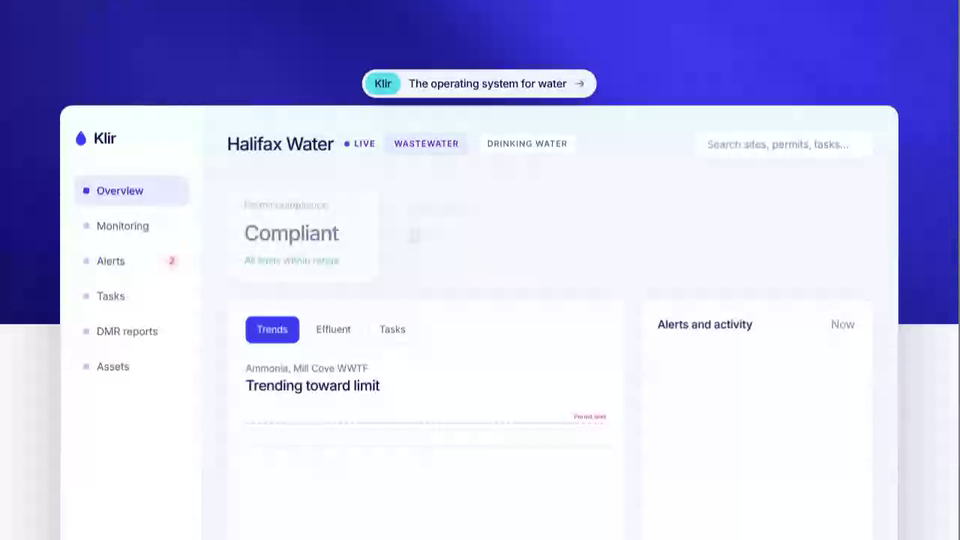
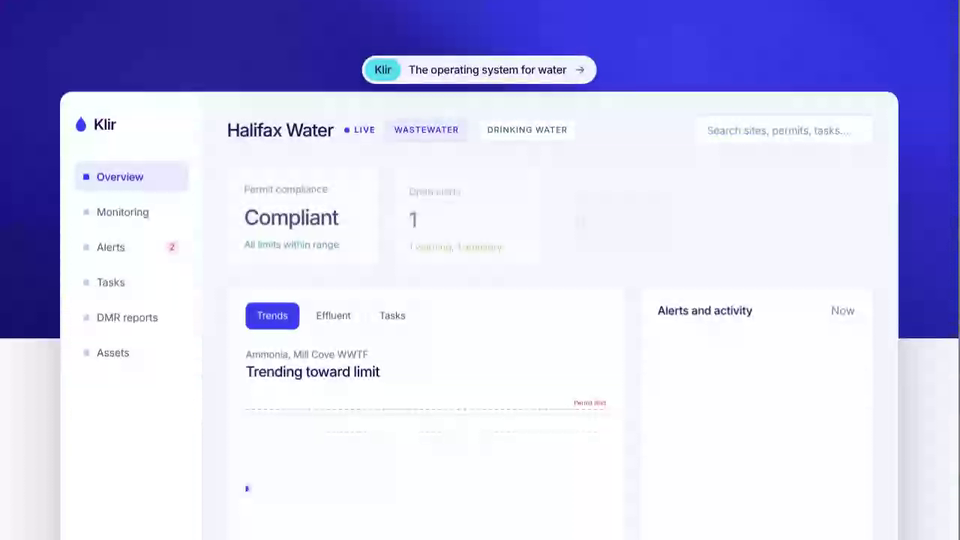
Klir Landing Page: purple, spaced, all-caps chart hover label
Claude-Session: https://claude.ai/code/session_01AHeBdxxJMjuAF9w67sWwW5

diff --git a/klir-landing-page/index.html b/klir-landing-page/index.html
@@ -224,7 +224,7 @@ footer p{font-size:clamp(18px,1.8vw,22px);letter-spacing:-.02em;max-width:30em;m
 <div class="ks"><div class="k"><small>Permit compliance</small><b>Compliant</b><span class="gr">All limits within range</span></div><div class="k"><small>Open alerts</small><b data-n="2">0</b><span class="am">1 warning, 1 advisory</span></div><div class="k"><small>Tasks due this week</small><b data-n="7">0</b><span class="">5 on track</span></div><div class="k"><small>DMR reporting</small><b>Ready</b><span class="">Next submission Dec 15</span></div></div>
 <div class="body"><div class="panel"><div class="tabs"><span class="on">Trends</span><span>Effluent</span><span>Tasks</span></div>
 <div class="pane on" data-p="0"><div class="ch"><div class="chh"><div><small>Ammonia, Mill Cove WWTF</small><b>Trending toward limit</b></div><span class="tag" id="tg">Warning at 80%</span></div>
-<svg viewBox="0 0 640 220" width="100%"><g stroke="#e6e5f6"><path d="M0 40H640M0 100H640M0 160H640"/></g><g id="wl" style="transition:opacity .3s"><path d="M0 70H640" stroke="#e0a23a" stroke-dasharray="5 6"/><text id="wlab" x="636" y="62" text-anchor="end" font-size="11" fill="#b9791a" style="opacity:0;transition:opacity .5s">Warning 80%</text></g><path d="M0 30H640" stroke="#d8505f" stroke-dasharray="5 6"/><text x="636" y="22" text-anchor="end" font-size="11" fill="#c23a4b">Permit limit</text><path id="trend" pathLength="1" d="M0 170C60 165 100 175 150 160S250 150 300 135 400 120 450 105 540 85 600 78" fill="none" stroke="#3b3bef" stroke-width="2.5"/><g id="dot" opacity="0"><circle r="11" fill="#3b3bef" opacity=".15"/><circle r="5" fill="#3b3bef"/></g><g id="tip" opacity="0" style="pointer-events:none"><path id="tl" d="M0 20V200" stroke="#3b3bef" stroke-opacity=".3"/><circle id="td" r="5" fill="#fff" stroke="#3b3bef" stroke-width="2"/><g id="tt"><rect x="-52" y="-40" width="104" height="24" rx="6" fill="#17094f"/><text id="tx" text-anchor="middle" y="-24" font-size="11.5" fill="#fff"></text></g></g></svg></div>
+<svg viewBox="0 0 640 220" width="100%"><g stroke="#e6e5f6"><path d="M0 40H640M0 100H640M0 160H640"/></g><g id="wl" style="transition:opacity .3s"><path d="M0 70H640" stroke="#e0a23a" stroke-dasharray="5 6"/><text id="wlab" x="636" y="62" text-anchor="end" font-size="11" fill="#b9791a" style="opacity:0;transition:opacity .5s">Warning 80%</text></g><path d="M0 30H640" stroke="#d8505f" stroke-dasharray="5 6"/><text x="636" y="22" text-anchor="end" font-size="11" fill="#c23a4b">Permit limit</text><path id="trend" pathLength="1" d="M0 170C60 165 100 175 150 160S250 150 300 135 400 120 450 105 540 85 600 78" fill="none" stroke="#3b3bef" stroke-width="2.5"/><g id="dot" opacity="0"><circle r="11" fill="#3b3bef" opacity=".15"/><circle r="5" fill="#3b3bef"/></g><g id="tip" opacity="0" style="pointer-events:none"><path id="tl" d="M0 20V200" stroke="#3b3bef" stroke-opacity=".3"/><circle id="td" r="5" fill="#fff" stroke="#3b3bef" stroke-width="2"/><g id="tt"><rect x="-84" y="-48" width="168" height="32" rx="8" fill="#3a0fc9"/><text id="tx" text-anchor="middle" y="-28" font-size="10.5" font-weight="500" letter-spacing="1" fill="#fff"></text></g></g></svg></div>
 <div class="ctl"><div class="row"><div><b>Warning alert</b><span>Notify at 80% of limit</span></div><i class="sw" id="sw" role="switch" aria-checked="true" tabindex="0"></i></div><div class="row"><div><b>Notify</b><span>Operations team, on call</span></div><u>Edit</u></div></div></div><div class="pane" data-p="1"><div class="eff"><div class="er"><div><b>Ammonia</b><span>1.9 of 2.5 mg/L</span></div><div class="bar"><i style="--w:76%;background:#e0a23a"></i></div></div><div class="er"><div><b>BOD</b><span>12 of 25 mg/L</span></div><div class="bar"><i style="--w:48%;background:#3b3bef"></i></div></div><div class="er"><div><b>Suspended solids</b><span>9 of 30 mg/L</span></div><div class="bar"><i style="--w:30%;background:#3b3bef"></i></div></div><div class="er"><div><b>Chlorine residual</b><span>0.04 of 0.1 mg/L</span></div><div class="bar"><i style="--w:40%;background:#3b3bef"></i></div></div></div></div><div class="pane" data-p="2"><div class="tks"><label class="tk"><input type="checkbox"><div><b>Collect ammonia grab sample</b><span>Herring Cove WWTF · due tomorrow</span></div></label><label class="tk"><input type="checkbox"><div><b>Review November DMR</b><span>Mill Cove WWTF · due today</span></div></label><label class="tk"><input type="checkbox" checked><div><b>Calibrate pH probe</b><span>Eastern Passage · Friday</span></div></label></div></div></div>
 <div class="feed"><h4>Alerts and activity <span>Now</span></h4><div class="f"><i class="w"></i><div><b>Ammonia trending up</b><span>Mill Cove WWTF, 80% of permit limit in 6 days</span></div><time>9:41</time></div><div class="f"><i class="b"></i><div><b>DMR report ready</b><span>November effluent data reviewed, ready to submit</span></div><time>9:12</time></div><div class="f"><i class="a"></i><div><b>Sampling task due tomorrow</b><span>Herring Cove WWTF, assigned to J. MacLeod</span></div><time>8:30</time></div><div class="f"><i class="g"></i><div><b>Field data synced</b><span>14 bench sheets captured on mobile</span></div><time>8:05</time></div></div></div></div></div></div>
 <svg id="path" aria-hidden="true">
@@ -335,7 +335,7 @@ const sw=$('sw'),flip=()=>{const off=sw.classList.toggle('off');sw.setAttribute(
 sw.onclick=flip;sw.onkeydown=e=>{if(e.key==' '||e.key=='Enter'){e.preventDefault();flip()}};
 const tr=$('trend'),cs=tr.closest('svg'),TL=tr.getTotalLength();
 cs.addEventListener('pointermove',e=>{const r=cs.getBoundingClientRect(),x=Math.max(0,Math.min(600,(e.clientX-r.left)/r.width*640));let a=0,b=TL;for(let i=0;i<22;i++){const m=(a+b)/2;tr.getPointAtLength(m).x<x?a=m:b=m}
-const pt=tr.getPointAtLength(a),tx=Math.max(52,Math.min(588,pt.x));$('tip').setAttribute('opacity',1);$('tl').setAttribute('transform',`translate(${pt.x} 0)`);$('td').setAttribute('transform',`translate(${pt.x} ${pt.y})`);$('tt').setAttribute('transform',`translate(${tx} ${pt.y})`);$('tx').textContent='Ammonia '+(2.5-(pt.y-30)*.0125).toFixed(2)+' mg/L'});
+const pt=tr.getPointAtLength(a),tx=Math.max(84,Math.min(556,pt.x));$('tip').setAttribute('opacity',1);$('tl').setAttribute('transform',`translate(${pt.x} 0)`);$('td').setAttribute('transform',`translate(${pt.x} ${pt.y})`);$('tt').setAttribute('transform',`translate(${tx} ${pt.y})`);$('tx').textContent=('Ammonia '+(2.5-(pt.y-30)*.0125).toFixed(2)+' mg/L').toUpperCase()});
 cs.addEventListener('pointerleave',()=>$('tip').setAttribute('opacity',0));
 
 addEventListener('scroll',tick,{passive:true});addEventListener('resize',layout);
